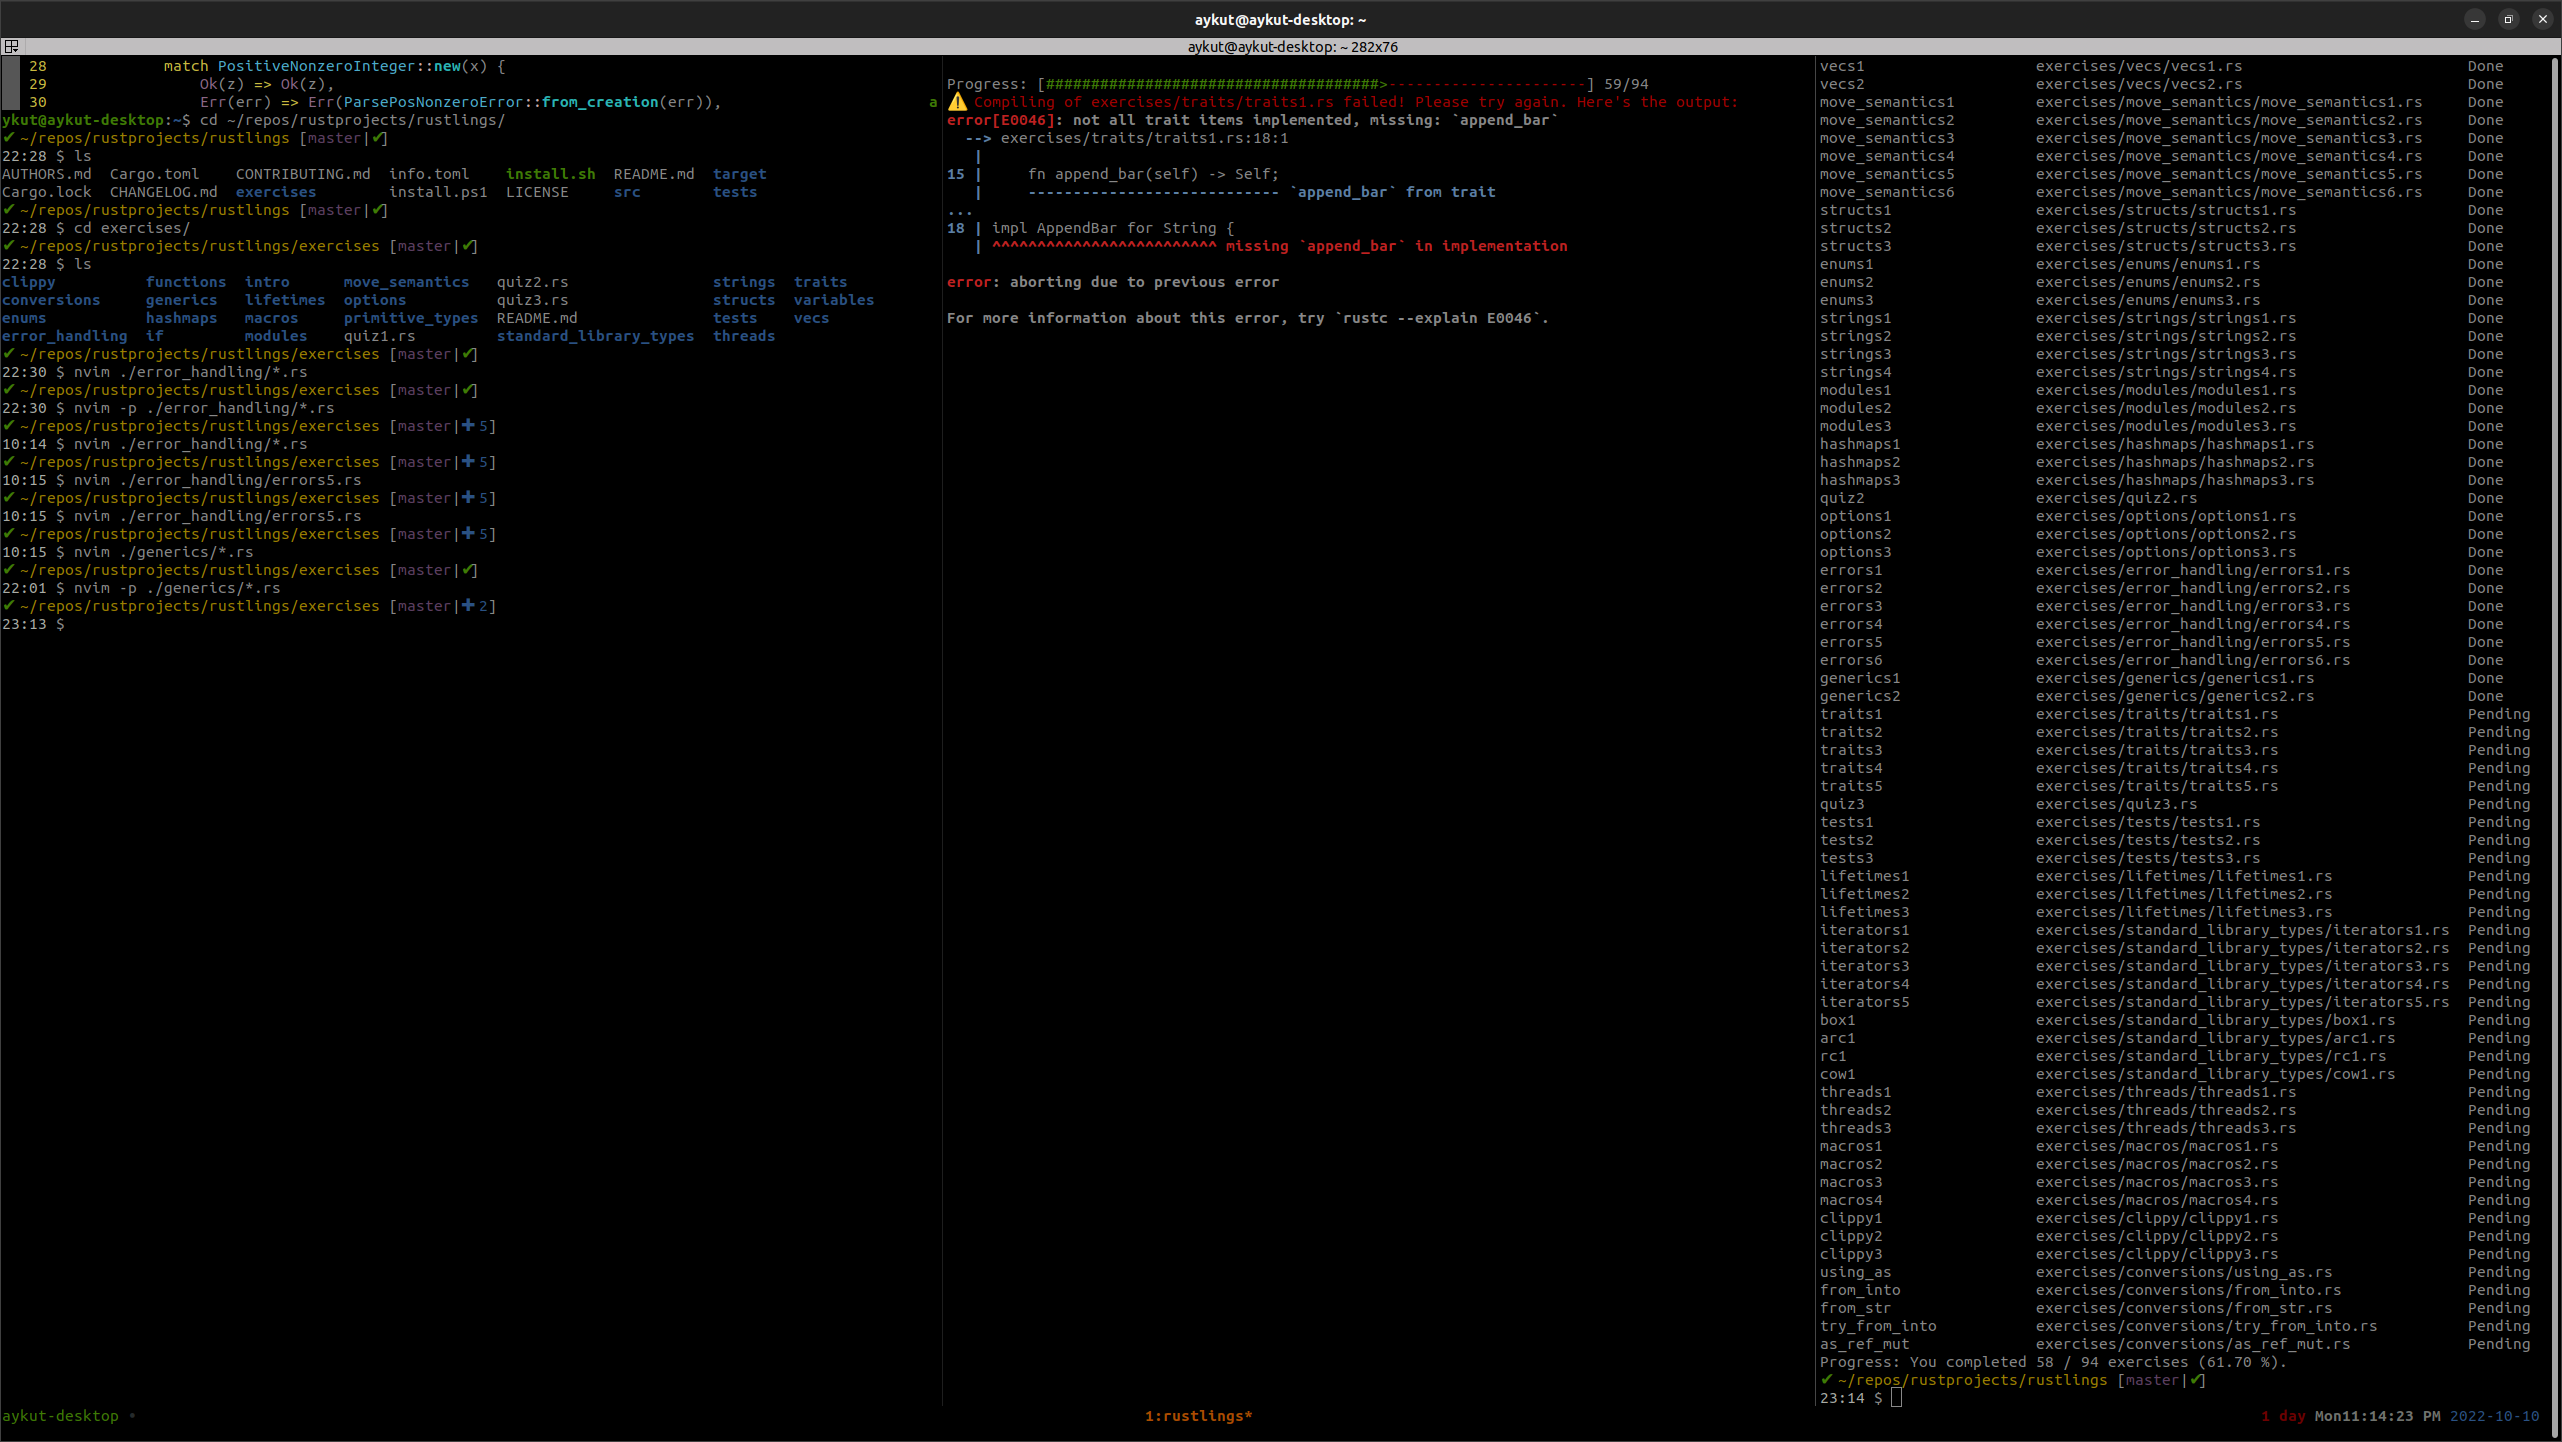
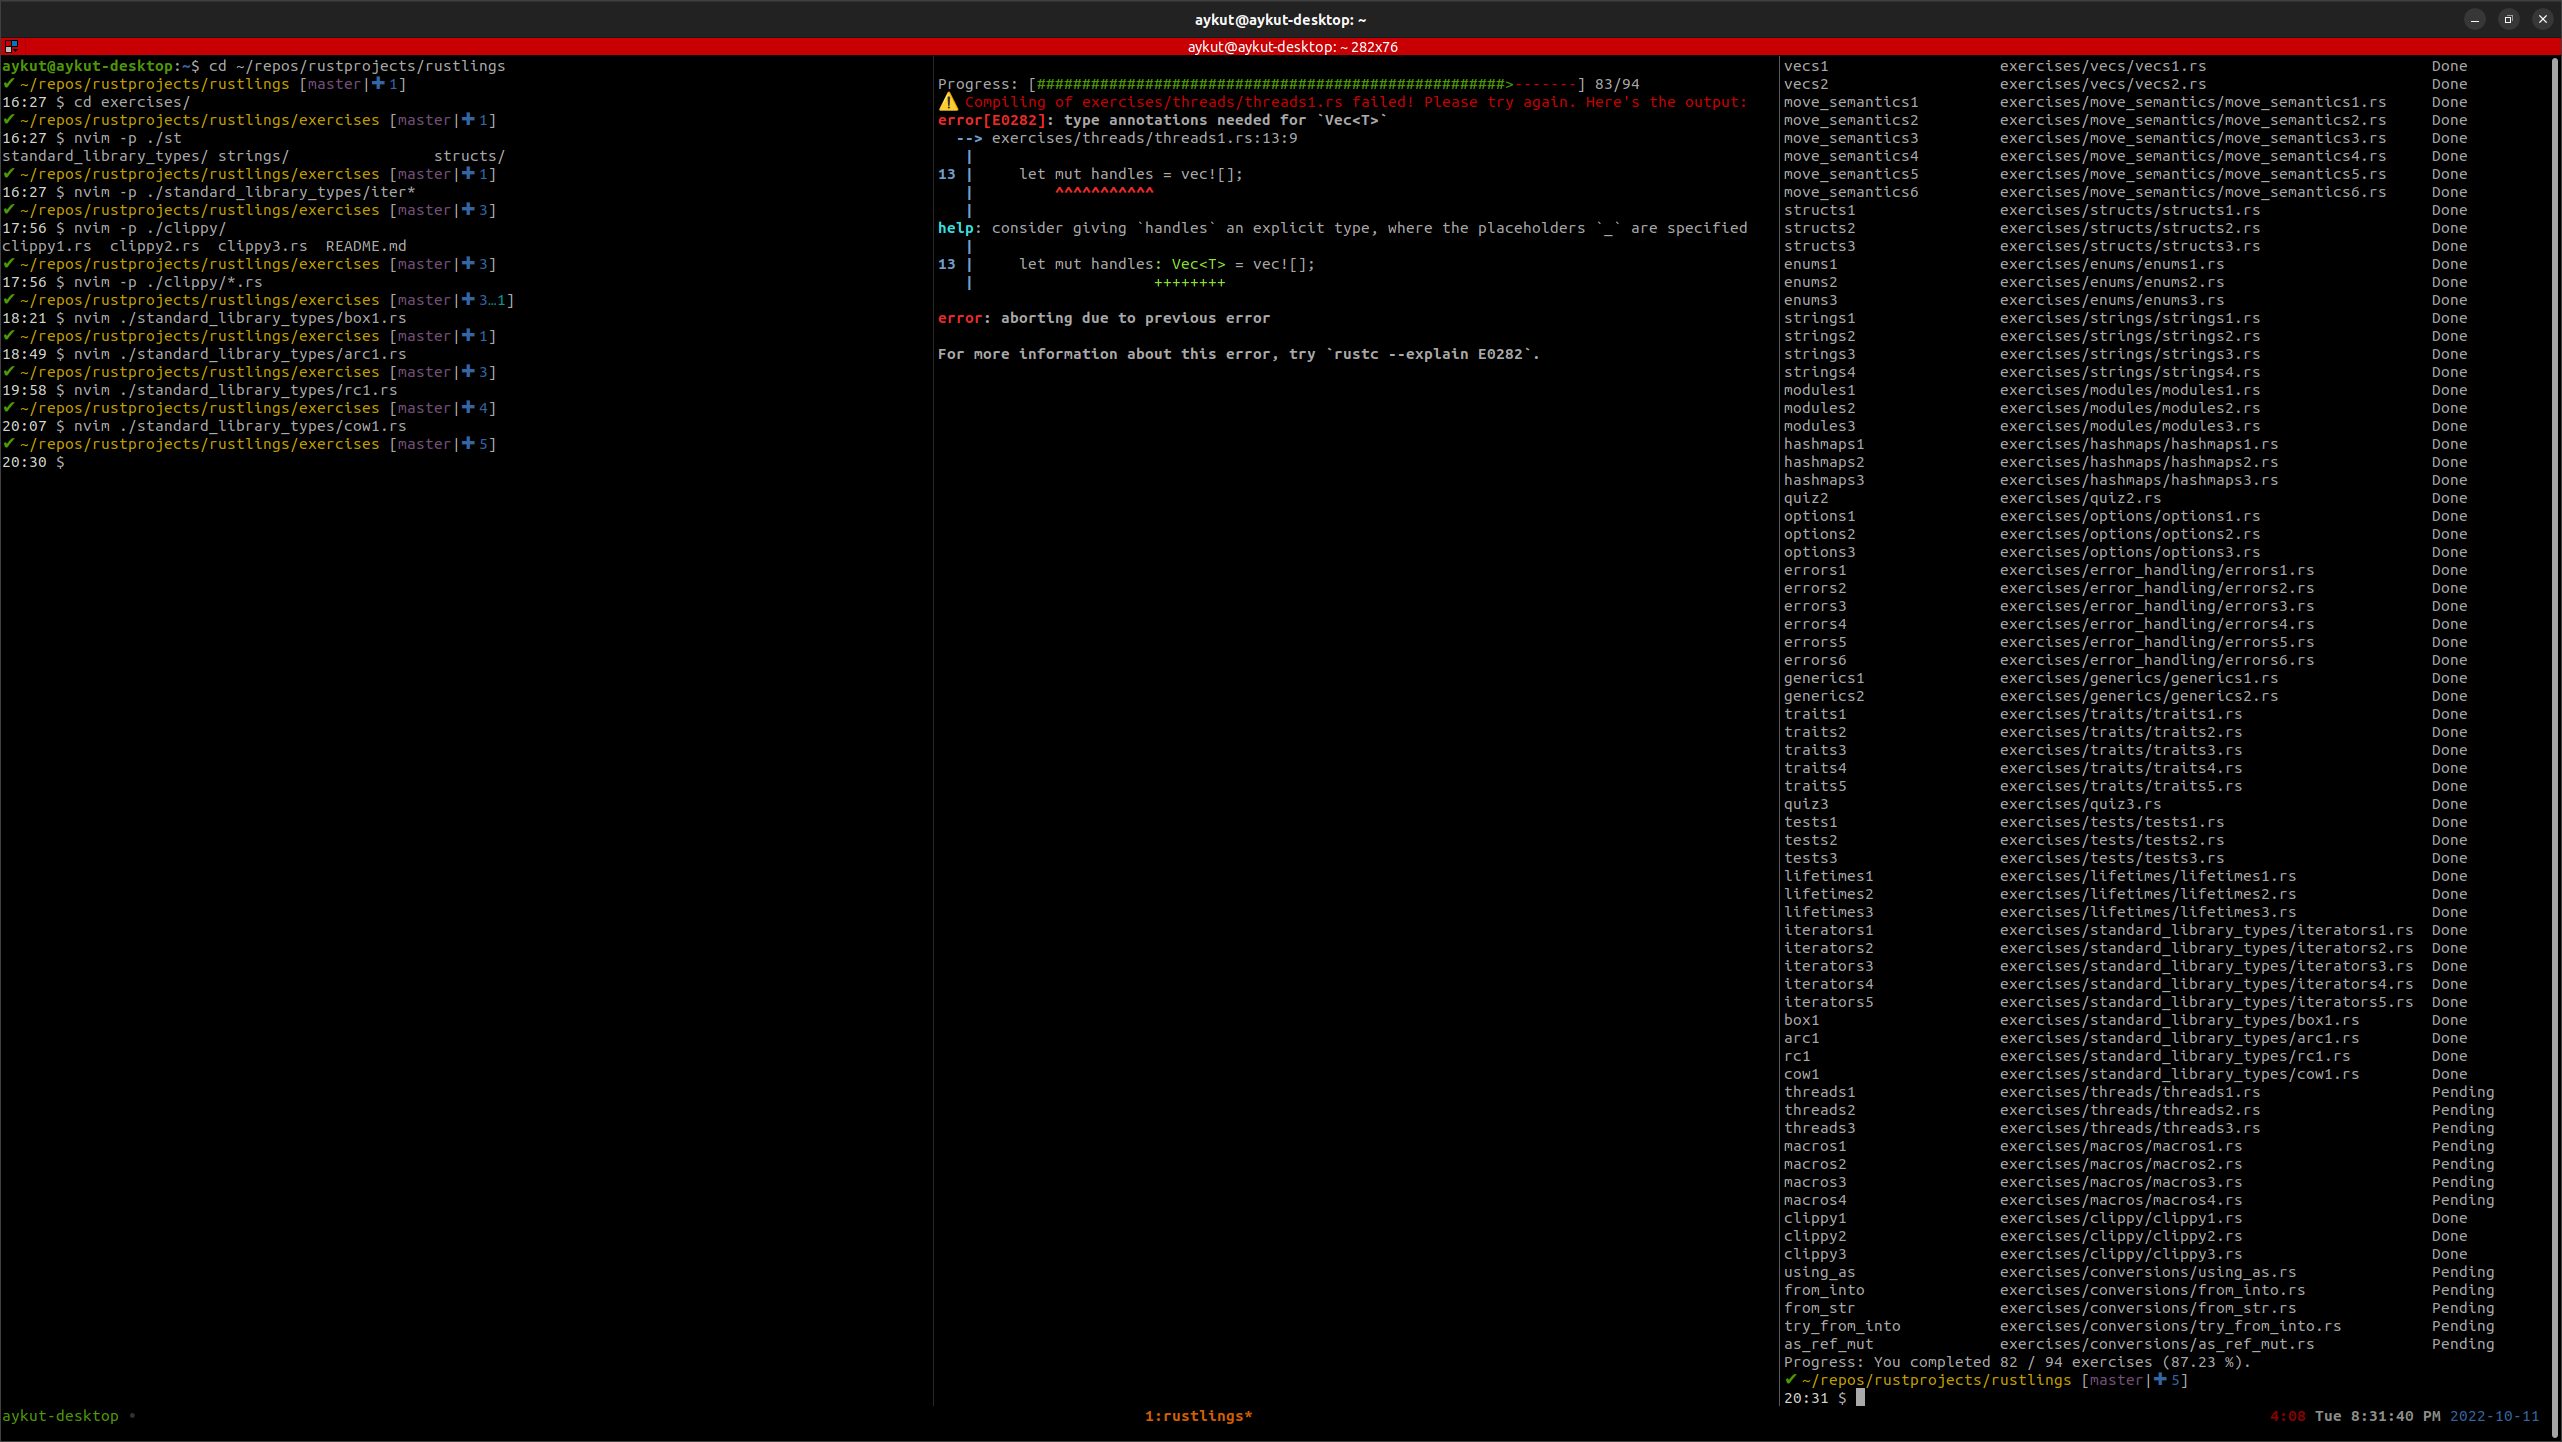
&end of standard library types

Changed region(s): [[0.0, 0.0, 1.0, 0.9674], [0.281, 0.1872, 0.3435, 0.2497], [0.9055, 0.9674, 0.9368, 0.9986]]

diff --git a/rustlings/exercises/standard_library_types/rc1.rs b/rustlings/exercises/standard_library_types/rc1.rs
@@ -5,7 +5,6 @@
 
 // Make this code compile by using the proper Rc primitives to express that the sun has multiple owners.
 
-// I AM NOT DONE
 use std::rc::Rc;
 
 #[derive(Debug)]
@@ -54,17 +53,17 @@ fn main() {
     jupiter.details();
 
     // TODO
-    let saturn = Planet::Saturn(Rc::new(Sun {}));
+    let saturn = Planet::Saturn(Rc::clone(&sun));
     println!("reference count = {}", Rc::strong_count(&sun)); // 7 references
     saturn.details();
 
     // TODO
-    let uranus = Planet::Uranus(Rc::new(Sun {}));
+    let uranus = Planet::Uranus(Rc::clone(&sun));
     println!("reference count = {}", Rc::strong_count(&sun)); // 8 references
     uranus.details();
 
     // TODO
-    let neptune = Planet::Neptune(Rc::new(Sun {}));
+    let neptune = Planet::Neptune(Rc::clone(&sun));
     println!("reference count = {}", Rc::strong_count(&sun)); // 9 references
     neptune.details();
 
@@ -86,12 +85,15 @@ fn main() {
     println!("reference count = {}", Rc::strong_count(&sun)); // 4 references
 
     // TODO
+    drop(earth);
     println!("reference count = {}", Rc::strong_count(&sun)); // 3 references
 
     // TODO
+    drop(venus);
     println!("reference count = {}", Rc::strong_count(&sun)); // 2 references
 
     // TODO
+    drop(mercury);
     println!("reference count = {}", Rc::strong_count(&sun)); // 1 reference
 
     assert_eq!(Rc::strong_count(&sun), 1);

diff --git a/rustlings/exercises/standard_library_types/arc1.rs b/rustlings/exercises/standard_library_types/arc1.rs
@@ -18,19 +18,17 @@
 // where the second TODO comment is. Try not to create any copies of the `numbers` Vec!
 // Execute `rustlings hint arc1` or use the `hint` watch subcommand for a hint.
 
-// I AM NOT DONE
-
 #![forbid(unused_imports)] // Do not change this, (or the next) line.
 use std::sync::Arc;
 use std::thread;
 
 fn main() {
     let numbers: Vec<_> = (0..100u32).collect();
-    let shared_numbers = // TODO
+    let shared_numbers = Arc::new(numbers);
     let mut joinhandles = Vec::new();
 
     for offset in 0..8 {
-        let child_numbers = // TODO
+        let child_numbers = Arc::clone(&shared_numbers); // TODO
         joinhandles.push(thread::spawn(move || {
             let sum: u32 = child_numbers.iter().filter(|n| *n % 8 == offset).sum();
             println!("Sum of offset {} is {}", offset, sum);

diff --git a/rustlings/exercises/standard_library_types/cow1.rs b/rustlings/exercises/standard_library_types/cow1.rs
@@ -5,8 +5,6 @@
 // It can enclose and provide immutable access to borrowed data, and clone the data lazily when mutation or ownership is required.
 // The type is designed to work with general borrowed data via the Borrow trait.
 
-// I AM NOT DONE
-
 use std::borrow::Cow;
 
 fn abs_all<'a, 'b>(input: &'a mut Cow<'b, [i32]>) -> &'a mut Cow<'b, [i32]> {
@@ -42,7 +40,7 @@ fn main() {
     let mut input = Cow::from(slice);
     match abs_all(&mut input) {
         // TODO
-        Cow::Borrowed(_) => println!("I own this slice!"),
+        Cow::Owned(_) => println!("I own this slice!"),
         _ => panic!("expected borrowed value"),
     }
 }

diff --git a/rustlings/exercises/standard_library_types/box1.rs b/rustlings/exercises/standard_library_types/box1.rs
@@ -16,11 +16,11 @@
 //
 // Execute `rustlings hint box1` or use the `hint` watch subcommand for a hint.
 
-// I AM NOT DONE
+use List::{Cons, Nil};
 
 #[derive(PartialEq, Debug)]
 pub enum List {
-    Cons(i32, List),
+    Cons(i32, Box<List>),
     Nil,
 }
 
@@ -33,11 +33,11 @@ fn main() {
 }
 
 pub fn create_empty_list() -> List {
-    todo!()
+    List::Nil
 }
 
 pub fn create_non_empty_list() -> List {
-    todo!()
+    Cons(1, Box::new(Cons(2, Box::new(Cons(3, Box::new(Nil))))))
 }
 
 #[cfg(test)]

diff --git a/README.md b/README.md
@@ -7,4 +7,4 @@ Currently, I am going through the exercises in [rustlings](https://github.com/ru
 
 ![Work in progress](./rustlings.png "Neovim/tmux set up.")
 
-Progress: You completed 78 / 94 exercises (82.98 %).
+Progress: You completed 82 / 94 exercises (87.23 %).
